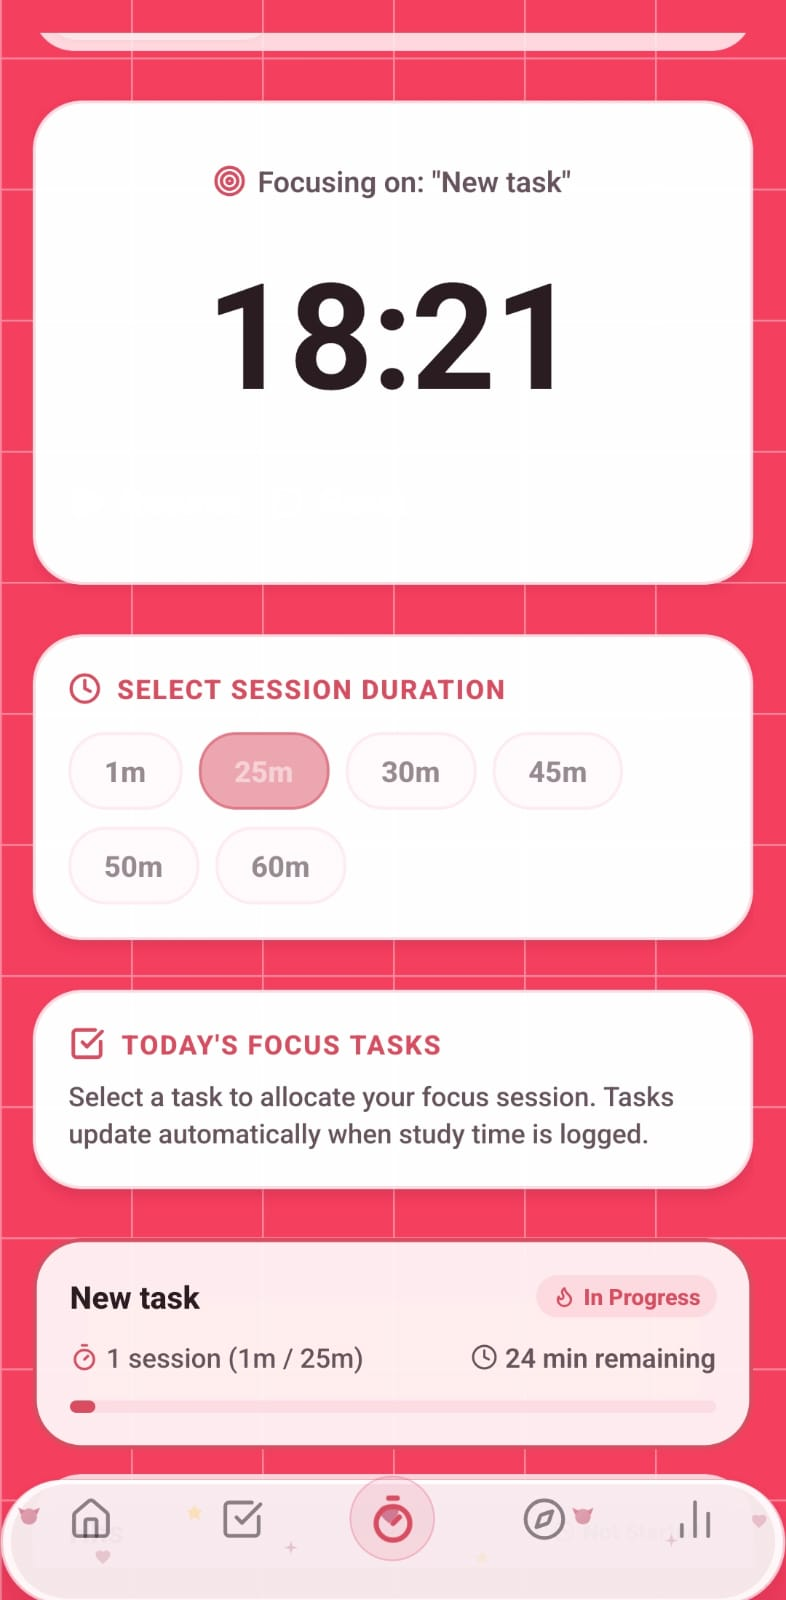
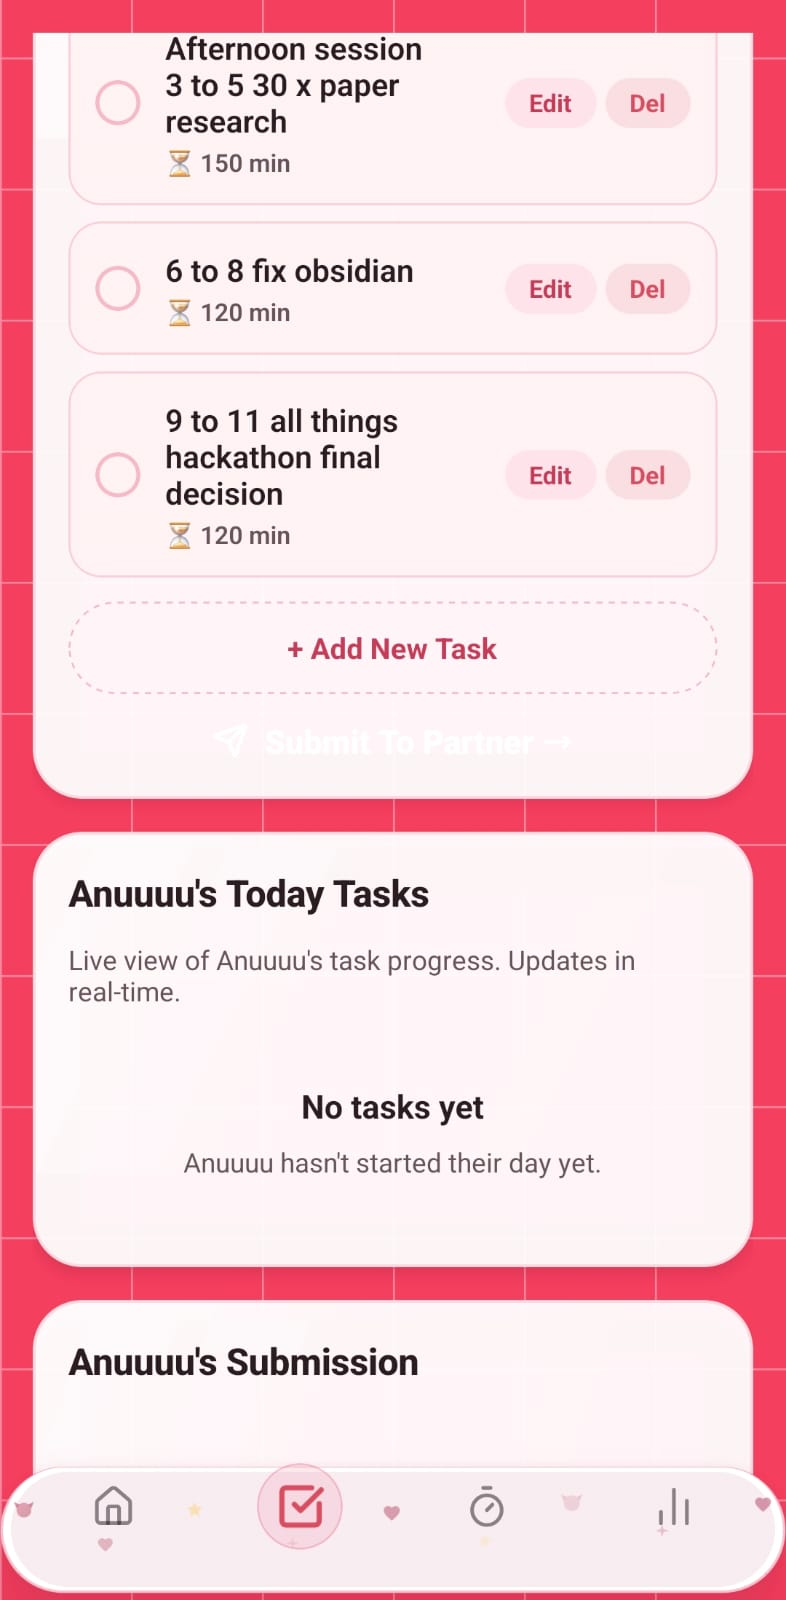
nutton u

diff --git a/components/ui/button.tsx b/components/ui/button.tsx
@@ -1,5 +1,5 @@
 import type { PropsWithChildren } from 'react';
-import { Pressable, Text, type StyleProp, type TextStyle, type ViewStyle } from 'react-native';
+import { Platform, Pressable, Text, type StyleProp, type TextStyle, type ViewStyle } from 'react-native';
 
 import { palette, radius, spacing } from '@/theme';
 
@@ -32,11 +32,15 @@ export function Button({
             backgroundColor: '#FFFFFF',
             borderWidth: 1.5,
             borderColor: 'rgba(232, 77, 114, 0.40)',
-            shadowColor: '#8A1535',
-            shadowOffset: { width: 0, height: 4 },
-            shadowOpacity: 0.15,
-            shadowRadius: 10,
-            elevation: 4,
+            overflow: 'hidden',
+            ...(Platform.OS === 'ios'
+              ? {
+                  shadowColor: '#8A1535',
+                  shadowOffset: { width: 0, height: 4 },
+                  shadowOpacity: 0.15,
+                  shadowRadius: 10,
+                }
+              : { elevation: 3 }),
           },
           text: {
             color: palette.cherryBloom,
@@ -49,6 +53,7 @@ export function Button({
             backgroundColor: 'rgba(255, 243, 245, 0.95)',
             borderWidth: 1.5,
             borderColor: 'rgba(232, 77, 114, 0.35)',
+            overflow: 'hidden',
           },
           text: {
             color: palette.cherryBloom,
@@ -62,6 +67,7 @@ export function Button({
             borderWidth: 1,
             borderColor: 'rgba(255, 255, 255, 0.40)',
             paddingHorizontal: spacing[12],
+            overflow: 'hidden',
           },
           text: {
             color: '#FFFFFF',
@@ -72,11 +78,15 @@ export function Button({
         return {
           container: {
             backgroundColor: palette.danger,
-            shadowColor: palette.danger,
-            shadowOffset: { width: 0, height: 4 },
-            shadowOpacity: 0.30,
-            shadowRadius: 8,
-            elevation: 4,
+            overflow: 'hidden',
+            ...(Platform.OS === 'ios'
+              ? {
+                  shadowColor: palette.danger,
+                  shadowOffset: { width: 0, height: 4 },
+                  shadowOpacity: 0.30,
+                  shadowRadius: 8,
+                }
+              : { elevation: 3 }),
           },
           text: {
             color: '#FFFFFF',
@@ -90,11 +100,15 @@ export function Button({
             backgroundColor: palette.cherryBloom,
             borderColor: 'rgba(255, 255, 255, 0.30)',
             borderWidth: 1,
-            shadowColor: '#5C0D22',
-            shadowOffset: { width: 0, height: 4 },
-            shadowOpacity: 0.30,
-            shadowRadius: 10,
-            elevation: 5,
+            overflow: 'hidden',
+            ...(Platform.OS === 'ios'
+              ? {
+                  shadowColor: '#5C0D22',
+                  shadowOffset: { width: 0, height: 4 },
+                  shadowOpacity: 0.30,
+                  shadowRadius: 10,
+                }
+              : { elevation: 3 }),
           },
           text: {
             color: '#FFFFFF',
